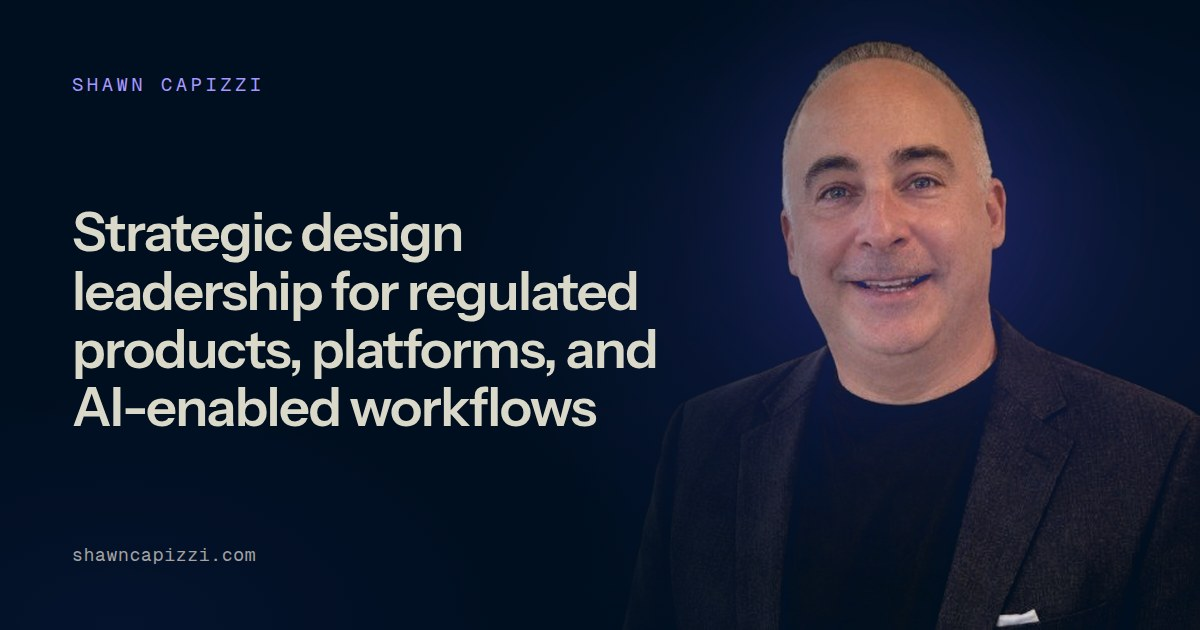
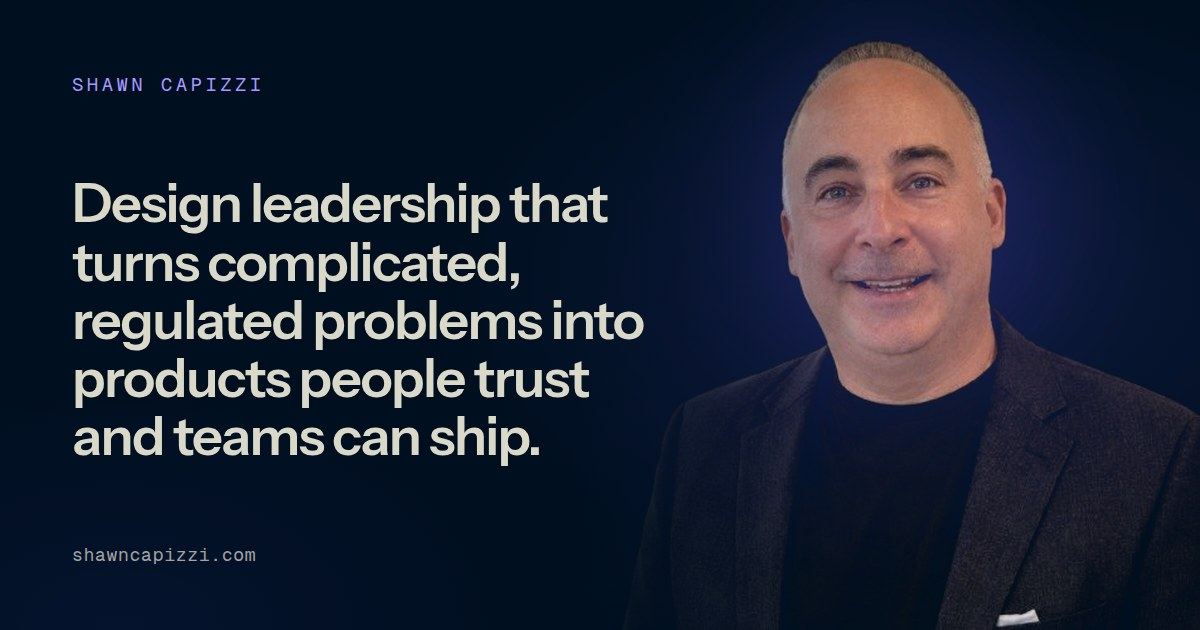
Homepage: conversion copy pass, new hero, keyword-bearing sections, refreshed share image

Changed region(s): [[0.0617, 0.2714, 0.555, 0.7238]]

diff --git a/components/HeroBottom.tsx b/components/HeroBottom.tsx
@@ -9,9 +9,9 @@ import Image from "next/image";
  * intent-named entry points, because a visitor does not know which audience
  * they are on arrival, but they do know what they came to do.
  *
- *   Door 1  What are you trying to launch, fix, or grow   the strategy call (the page's one ask)
- *   Door 2  See the work                /work
- *   Door 3  Tangible thinking           /thinking, the Process page
+ *   Door 1  Share your business goals             the strategy call (the page's one ask)
+ *   Door 2  The work, and what changed            /work
+ *   Door 3  A process built for getting unstuck   /thinking, the Process page
  *
  * The D&AD line stays underneath as a credential. It is shown, not claimed.
  *
@@ -36,8 +36,8 @@ const DOORS: Door[] = [
   {
     key: "problem",
     eyebrow: "Start here",
-    title: "What are you trying to launch, fix, or grow?",
-    body: "Modernize an outdated experience, bring an idea to market, make your messaging drive action, or turn customer behavior and data into business value. Start with the business problem. I'll bring your team and stakeholders together to define what comes next.",
+    title: "Share your business goals or roadblocks.",
+    body: "A stuck flow, a message that isn't getting the action you want, or customer signals nobody tracks. I find the opportunities, drive product to market, and build feedback loops that turn customer data into actionable business intelligence.",
     cta: "Book a Strategy Call",
     href: CAL_URL,
     external: true,
@@ -46,15 +46,15 @@ const DOORS: Door[] = [
   {
     key: "work",
     eyebrow: "Proof",
-    title: "See the work.",
+    title: "The work, and what changed because of it.",
     body: "Six case studies, from enterprise pharma governance to a Bloomberg terminal CRM, and the two products I built and shipped myself.",
-    cta: "See the case studies",
+    cta: "See what changed",
     href: "/work",
   },
   {
     key: "thinking",
     eyebrow: "Method",
-    title: "Tangible thinking.",
+    title: "A process built for getting unstuck.",
     body: "I took my operations and beliefs and put them to paper. What I bring to every discussion, now as a system: digital, printed, and in your pocket.",
     cta: "See the Process",
     href: "/thinking",

diff --git a/components/Hero.tsx b/components/Hero.tsx
@@ -6,9 +6,11 @@ import { Wordmark } from "./Wordmark";
  *
  * Contains: headline + lead + wordmark (signature) + headshot.
  *
- * The headline asserts leadership first and the working-software claim
- * second, in that order on purpose: buyers arriving from a cold email hire
- * on precedent first. The three doors live in HeroBottom, which renders
+ * The headline names the role, the niche, and the outcome in one line
+ * (September 2026). The lead adds the credential and the build claim, in
+ * that order on purpose: buyers arriving from a cold email hire on
+ * precedent first. Discipline keywords live further down the page and in
+ * the metadata, not here. The three doors live in HeroBottom, which renders
  * AFTER LogoStrip on the homepage.
  *
  * Desktop (lg and up): two columns, text left, headshot right.
@@ -36,10 +38,10 @@ export function Hero() {
               wrapper is display: contents; see the note above. */}
           <div className="contents lg:block relative z-10 lg:col-span-7 lg:order-1">
             <h1 className="headline-gleam hero-title max-w-full lg:max-w-[90%] order-1">
-              Strategic design leadership for regulated products, platforms, and AI-enabled workflows
+              Design leadership that turns complicated, regulated problems into products people trust and teams can ship.
             </h1>
             <p className="hero-lead text-pretty max-w-full lg:max-w-[90%] order-3">
-              15 years leading design and innovation across pharma, healthcare, finance, and enterprise, as well as building products, from idea to live software.
+              15 years designing and building products across pharma, healthcare, financial services, and enterprise. I research, design, prototype, build, and ship, from first sketch to live software.
             </p>
 
             <Wordmark

diff --git a/components/Building.tsx b/components/Building.tsx
@@ -69,13 +69,16 @@ export function Building() {
         <div className="max-w-3xl">
           <p className="eyebrow mb-4">Designed, built, and shipped solo</p>
           <h2 className="section-title">
-            Working products and prototypes, not a description of it
+            I don&apos;t just recommend what to build. I build it.
           </h2>
           <p className="mt-6 text-lg md:text-xl text-text-secondary leading-relaxed">
-            Live products on the same stack I use for client work: Next.js,
-            Supabase, and Vercel, with Claude Code and ChatGPT as build
-            partners and myself as the orchestrator. I also work with onshore
-            and offshore dev teams to get what you need built and shipped.
+            AI-native product design, end to end: strategy, product
+            definition, experience architecture, service design, UX, and
+            prototyping, through to functioning software. These are live, on
+            the same stack I use for client work: Next.js, Supabase, and
+            Vercel, with Claude Code and ChatGPT as build partners. I also work
+            with onshore and offshore dev teams to get what you need built and
+            shipped.
           </p>
         </div>
 

diff --git a/lib/seo.ts b/lib/seo.ts
@@ -26,9 +26,9 @@ export const LINKEDIN_URL = "https://www.linkedin.com/in/shawncapizzi";
 /** Homepage title and description. Title under 60 characters so results
  *  do not truncate it. The description carries the hero H1 and lead in about
  *  160 characters: leadership first, then the build practice. */
-export const HOME_TITLE = "Shawn Capizzi | Design Leadership for Regulated Industries";
+export const HOME_TITLE = "Shawn Capizzi | Design Leadership, Service Design, and UX";
 export const HOME_DESCRIPTION =
-  "Strategic design leadership for regulated products, platforms, and AI-enabled workflows. 15 years in pharma, healthcare, and finance, and I ship products myself.";
+  "Service design, experience architecture, UX, CX, and AI-native product design for regulated and enterprise teams. 15 years in pharma, healthcare, and finance.";
 
 export type ShareImage = { url: string; width: number; height: number; alt: string };
 

diff --git a/components/HowIWork.tsx b/components/HowIWork.tsx
@@ -31,7 +31,7 @@ const MODES: Mode[] = [
     key: "leadership",
     eyebrow: "Leadership",
     title: "Embed me in the work.",
-    line: "Design leadership inside your live work, through to 0-to-1 delivery and the internal tools a department has waited years for.",
+    line: "Fractional or embedded design leadership inside your live work, through to 0-to-1 delivery and the internal tools a department has waited years for.",
   },
   {
     key: "advisory",
@@ -54,7 +54,7 @@ export function HowIWork() {
         <div className="max-w-3xl">
           <p className="eyebrow mb-4">Engagement model</p>
           <h2 className="section-title">
-            How I work with teams
+            Three ways to bring me into the work.
           </h2>
           <p className="mt-6 text-lg md:text-xl text-text-secondary leading-relaxed">
             Start by solving or defining a single business opportunity, then

diff --git a/components/SelectedWork.tsx b/components/SelectedWork.tsx
@@ -58,12 +58,13 @@ export function SelectedWork() {
         <div className="max-w-3xl">
           <p className="eyebrow mb-4">Case studies</p>
           <h2 className="section-title">
-            View some of my selected work
+            The work, and the impact behind it.
           </h2>
           <p className="mt-6 text-lg md:text-xl text-text-secondary leading-relaxed">
-            Engagements where experience, collaboration, thoughtful
-            consideration, and structure drove positive business outcomes and
-            transformation.
+            Governance across 70+ pharma brands, a D&amp;AD-recognized patient
+            navigation platform, and a terminal CRM with $1.5M+ in annual ROI.
+            Service design, design systems, and enterprise UX, judged by what
+            changed.
           </p>
         </div>
 

diff --git a/components/ProcessSection.tsx b/components/ProcessSection.tsx
@@ -30,7 +30,7 @@ export function ProcessSection() {
         <div className="max-w-3xl mb-10 md:mb-12">
           <p className="eyebrow mb-4">The Capizzi Process</p>
           <h2 className="section-title text-text-primary">
-            The method, in print and in hand.
+            The way I work, made tangible.
           </h2>
           <p className="mt-4 md:mt-6 text-base md:text-lg text-text-secondary leading-relaxed">
             The Capizzi Process is how I work: listen first, make it visible,

diff --git a/components/FinalCTA.tsx b/components/FinalCTA.tsx
@@ -6,7 +6,7 @@ export function FinalCTA() {
       <div className="max-w-content mx-auto px-6 md:px-8 lg:px-12">
         <div className="max-w-3xl">
           <h2 className="section-title">
-            Let&apos;s talk through your challenges.
+            Bring me what you&apos;re working through.
           </h2>
           <p className="mt-6 text-lg md:text-xl text-text-secondary leading-relaxed">
             30 minutes. Virtual.

diff --git a/components/Testimonials.tsx b/components/Testimonials.tsx
@@ -44,7 +44,7 @@ export function Testimonials() {
         <div className="max-w-3xl">
           <p className="eyebrow mb-4">In their words</p>
           <h2 className="section-title">
-            What clients have said
+            What it&apos;s like to work together.
           </h2>
         </div>
 
